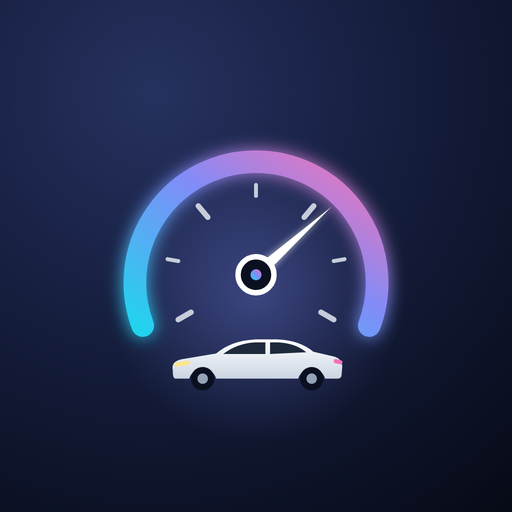
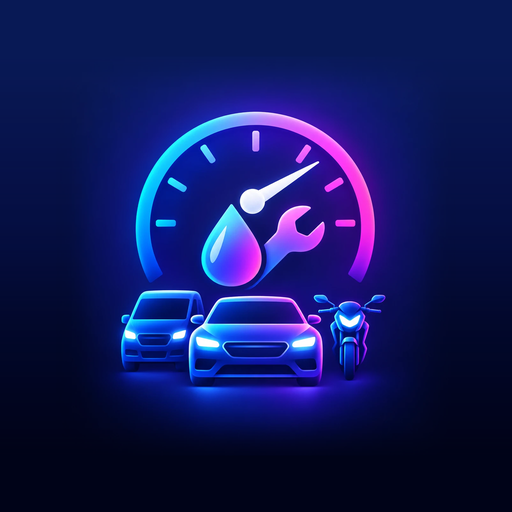
Icône choisie : compteur, goutte, clé et les trois véhicules
Remplace l'icône par celle choisie (compteur néon avec goutte de carburant
et clé, voiture, fourgonnette et moto), en 192, 512, Apple et « maskable »
avec un fond prolongé sans démarcation pour le découpage rond d'Android.

Claude-Session: https://claude.ai/code/session_01WZCVY3ihYc7jtbVa5yN7Df

diff --git a/index.html b/index.html
@@ -8,9 +8,9 @@
 <meta name="apple-mobile-web-app-status-bar-style" content="black-translucent">
 <meta name="apple-mobile-web-app-title" content="Mon Garage">
 <title>Mon Garage</title>
-<link rel="icon" href="icon-192.png?v=2">
+<link rel="icon" href="icon-192.png?v=3">
 <link rel="manifest" href="manifest.webmanifest">
-<link rel="apple-touch-icon" href="apple-touch-icon.png?v=2">
+<link rel="apple-touch-icon" href="apple-touch-icon.png?v=3">
 <link rel="preconnect" href="https://fonts.googleapis.com"><link rel="preconnect" href="https://fonts.gstatic.com" crossorigin>
 <link href="https://fonts.googleapis.com/css2?family=Outfit:wght@400;500;600;700;800;900&display=swap" rel="stylesheet">
 <!-- Firebase SDK (sauvegarde en ligne, même base que Mon Programme) -->

diff --git a/sw.js b/sw.js
@@ -1,5 +1,5 @@
 /* Mon Garage : service worker pour l'installation et l'usage hors ligne */
-const CACHE = 'mon-garage-app-v5';
+const CACHE = 'mon-garage-app-v6';
 const CORE = ['./', './index.html', './app.js', './data.js', './plus.js', './manifest.webmanifest', './icon-192.png', './icon-512.png', './apple-touch-icon.png', './img/auris.webp', './img/express.webp', './img/z750s.webp'];
 
 self.addEventListener('install', e => {
